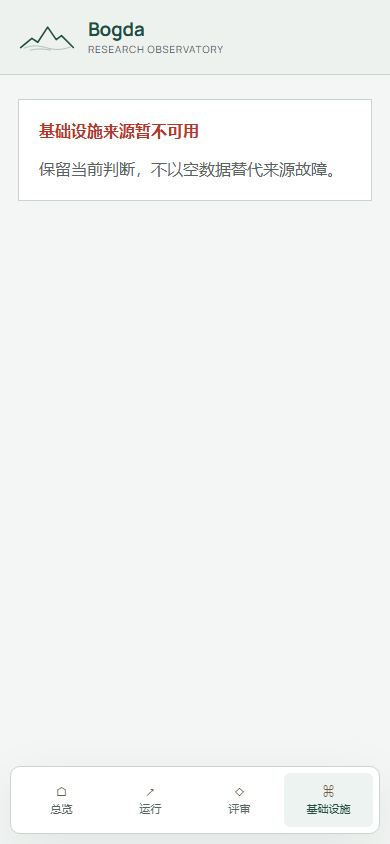
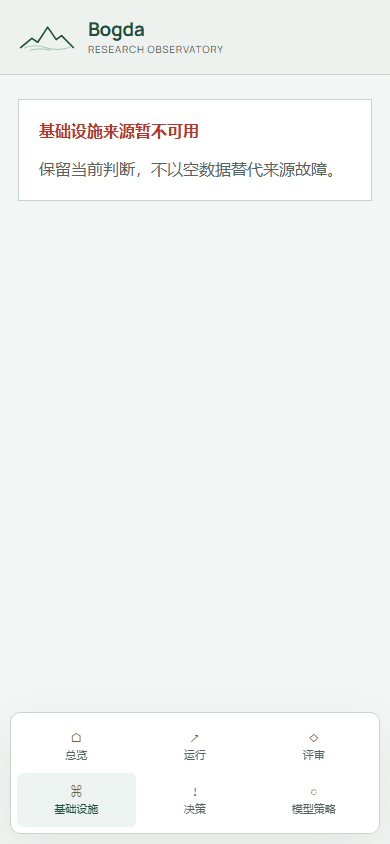
docs(bogda): accept owner console stage

diff --git a/bogda-console/tests/browser/console.spec.ts b/bogda-console/tests/browser/console.spec.ts
@@ -40,9 +40,11 @@ test("allowlisted Deployment submit and exact Prefect controls wait for receipts
   await gotoSettled(page, "/infrastructure");
 
   await page.getByRole("button", { name: "提交 alpine-assay" }).click();
-  await expect(page.getByRole("dialog", { name: "提交 alpine-assay" })).toBeVisible();
+  await expect(page.getByRole("dialog", { name: "准备 alpine-assay" })).toBeVisible();
   await page.getByRole("textbox", { name: "sample" }).fill("ridge-browser");
-  await page.getByRole("button", { name: "提交运行" }).click();
+  await page.getByRole("button", { name: "生成服务端预览" }).click();
+  await expect(page.getByRole("heading", { name: "服务端预览" })).toBeVisible();
+  await page.getByRole("button", { name: "确认并提交运行" }).click();
   await expect(page.getByRole("status")).toContainText("已提交");
 
   await page.getByRole("button", { name: "暂停队列 cpu" }).click();
@@ -137,5 +139,151 @@ test("research autonomy controls wrap at 360px", async ({ page }, testInfo) => {
   await gotoSettled(page, "/");
   await expect(page.getByRole("region", { name: "科研自主模式" })).toBeVisible();
   await assertNoHorizontalOverflow(page);
+  assertNoErrors();
+});
+
+test("decision center keeps keyboard conflict handling and canonical hash targets", async ({ page }) => {
+  const expected = new Set(["POST /api/v1/decisions/decision-1 409"]);
+  const assertNoErrors = collectUnexpectedBrowserErrors(page, expected);
+  await gotoSettled(page, "/decisions#decision-1");
+  const item = page.locator("#decision-1");
+  await expect(item).toBeVisible();
+  await expect.poll(() => item.evaluate((node) => document.activeElement === node)).toBe(true);
+
+  await page.getByRole("button", { name: "查看：Peak run" }).click();
+  const dialog = page.getByRole("dialog", { name: "Peak run" });
+  await expect(dialog).toBeVisible();
+  await expect(dialog.getByRole("combobox", { name: "选择操作" })).toBeVisible();
+  await dialog.getByRole("combobox", { name: "选择操作" }).selectOption("approve");
+  await dialog.getByLabel("操作理由").fill("浏览器验收：批准高峰覆盖");
+  await dialog.getByLabel("确认不可逆后果").check();
+
+  let posts = 0;
+  const snapshot = await (await page.request.get("/api/v1/decisions")).json();
+  await page.route("**/api/v1/decisions/decision-1", async (route) => {
+    if (route.request().method() !== "POST") {
+      await route.continue();
+      return;
+    }
+    posts += 1;
+    if (posts === 1) {
+      await route.fulfill({
+        status: 409,
+        contentType: "application/json",
+        body: JSON.stringify({
+          data: null,
+          sources: {},
+          errors: [{
+            code: "RESOURCE_CHANGED",
+            message: "decision revision moved",
+            source: "modelControl",
+            retryable: false,
+            details: { currentResource: snapshot.data },
+          }],
+        }),
+      });
+      return;
+    }
+    await route.continue();
+  });
+
+  await dialog.getByRole("button", { name: "Approve" }).click();
+  await expect(dialog.getByRole("alert")).toContainText("决策已被其他操作修改");
+  await dialog.getByLabel("我已重新检查当前修订和操作").check();
+  await dialog.getByLabel("确认不可逆后果").check();
+  await dialog.getByRole("button", { name: "Approve" }).click();
+  await expect(page.getByRole("dialog", { name: "Peak run" })).toHaveCount(0);
+  assertNoErrors();
+});
+
+test("run budget copy stays state-specific and usage-unknown forbids blind retry", async ({ page }) => {
+  const assertNoErrors = collectUnexpectedBrowserErrors(page);
+  await gotoSettled(page, "/runs/run-completed");
+  await expect(page.getByRole("region", { name: "运行预算" })).toContainText("预算可用");
+  await expect(page.getByRole("region", { name: "运行预算" })).toContainText("4.00 CNY");
+
+  await gotoSettled(page, "/runs/run-active");
+  const budget = page.getByRole("region", { name: "运行预算" });
+  await expect(budget).toContainText("用量未知");
+  await expect(budget).toContainText("必须人工核对用量后才能恢复");
+  await expect(budget).toContainText("同一调用不得盲目重试");
+  await expect(budget.getByRole("link", { name: /decision-usage-unknown/ })).toHaveAttribute("href", "/decisions#decision-usage-unknown");
+  assertNoErrors();
+});
+
+test("model policy keeps immutable facts and restores inheritance after conflict reconfirm", async ({ page }) => {
+  const expected = new Set(["POST /api/v1/model-policy/projects/bogda-main 409"]);
+  const assertNoErrors = collectUnexpectedBrowserErrors(page, expected);
+  await gotoSettled(page, "/model-policy");
+  await assertNoHorizontalOverflow(page);
+  const region = page.getByRole("region", { name: "模型策略" });
+  await expect(region.getByText("仅观察，不可关闭")).toBeVisible();
+  await expect(region.getByText("修订号")).toBeVisible();
+
+  const remaining = region.getByLabel("最低剩余预算");
+  await remaining.fill("12.00");
+  const save = region.getByRole("button", { name: "保存项目默认" });
+  await save.scrollIntoViewIfNeeded();
+  await save.click({ force: true });
+  await page.getByRole("button", { name: "确认保存" }).click();
+  await expect(region.getByText("本项目覆盖全局默认")).toBeVisible();
+
+  let posts = 0;
+  const current = await (await page.request.get("/api/v1/model-policy?projectId=bogda-main")).json();
+  await page.route("**/api/v1/model-policy/projects/bogda-main", async (route) => {
+    if (route.request().method() !== "POST") {
+      await route.continue();
+      return;
+    }
+    posts += 1;
+    if (posts === 1) {
+      await route.fulfill({
+        status: 409,
+        contentType: "application/json",
+        body: JSON.stringify({
+          data: null,
+          sources: {},
+          errors: [{
+            code: "RESOURCE_CHANGED",
+            message: "policy revision moved",
+            source: "modelControl",
+            retryable: false,
+            details: { currentResource: { ...current.data, revision: current.data.revision + 1 } },
+          }],
+        }),
+      });
+      return;
+    }
+    await route.continue();
+  });
+
+  await region.getByRole("button", { name: "恢复继承全局" }).click();
+  await page.getByRole("button", { name: "确认恢复继承" }).click();
+  await expect(page.getByRole("status")).toContainText("审阅最新值后重新确认");
+  await region.getByRole("button", { name: "恢复继承全局" }).click();
+  await page.getByRole("button", { name: "确认恢复继承" }).click();
+  await expect(region.getByText("继承全局")).toBeVisible();
+  assertNoErrors();
+});
+
+test("real-readonly capabilities keep policy and paid preparation closed", async ({ page }) => {
+  await page.route("**/api/v1/capabilities", async (route) => {
+    const response = await route.fetch();
+    const body = await response.json();
+    body.data = {
+      ...body.data,
+      profile: "real-readonly",
+      canPreparePaidRun: false,
+      canSetModelPolicy: false,
+      canResolveModelDecision: false,
+      canSubmitRegisteredDeployment: false,
+    };
+    await route.fulfill({ response, json: body });
+  });
+  const assertNoErrors = collectUnexpectedBrowserErrors(page);
+  await gotoSettled(page, "/model-policy");
+  await expect(page.getByRole("button", { name: "保存项目默认" })).toBeDisabled();
+  await gotoSettled(page, "/infrastructure");
+  await expect(page.getByRole("button", { name: "提交 alpine-assay" })).toBeDisabled();
   assertNoErrors();
 });

diff --git a/bogda-console/frontend/src/styles/global.css b/bogda-console/frontend/src/styles/global.css
@@ -215,8 +215,8 @@ h2 { margin: 0; font-size: clamp(21px, 2vw, 30px); line-height: 1.15; letter-spa
   .app-rail { position: static; width: auto; height: auto; padding: 16px 18px; border-right: 0; border-bottom: 1px solid var(--line); }
   .app-rail .rail-nav, .rail-foot { display: none; }
   .brand-mark__ridge { width: 58px; }
-  main { padding: 24px 18px 104px; }
-  .mobile-nav { position: fixed; z-index: 30; left: 10px; right: 10px; bottom: 10px; display: grid; grid-template-columns: repeat(5, 1fr); min-height: 68px; padding: 6px; background: var(--paper); border: 1px solid var(--line); border-radius: 10px; box-shadow: var(--shadow); }
+  main { padding: 24px 18px 168px; }
+  .mobile-nav { position: fixed; z-index: 30; left: 10px; right: 10px; bottom: 10px; display: grid; grid-template-columns: repeat(3, 1fr); min-height: 68px; padding: 6px; background: var(--paper); border: 1px solid var(--line); border-radius: 10px; box-shadow: var(--shadow); }
   .mobile-nav a { min-width: 0; min-height: 54px; padding: 4px; flex-direction: column; justify-content: center; gap: 2px; font-size: 11px; }
   .mobile-nav a.active { color: var(--conifer); background: #edf3f0; }
   .source-notice time { width: 100%; margin-left: 27px; }
@@ -239,6 +239,7 @@ h2 { margin: 0; font-size: clamp(21px, 2vw, 30px); line-height: 1.15; letter-spa
   .deployment-record { grid-template-columns: 1fr; }.schedule-list { grid-column: auto; }.deployment-actions .primary-action { width: 100%; }
   .review-control form { grid-template-columns: 1fr; }.review-control .primary-action { width: 100%; }
   .run-budget-ledger { grid-template-columns: 1fr 1fr; }.run-budget-audit-columns { grid-template-columns: 1fr; }
+  .policy-meta,.policy-fields { grid-template-columns: 1fr; }
   .mode-band { grid-template-columns: 1fr; }
   .mode-detent { border-right: 0; border-bottom: 1px solid var(--line); }
   .mode-detent:last-child { border-bottom: 0; }

diff --git a/bogda-console/tests/browser/degradation.spec.ts b/bogda-console/tests/browser/degradation.spec.ts
@@ -7,6 +7,17 @@ import {
   type Scenario,
 } from "./support";
 
+test("decision and policy pages stay available when Prefect infrastructure fails", async ({ page, request }) => {
+  await setScenario(request, "degraded-stale");
+  const expected = new Set(["GET /api/v1/infrastructure 503", "GET /api/v1/deployments 503"]);
+  const assertNoErrors = collectUnexpectedBrowserErrors(page, expected);
+  await gotoSettled(page, "/decisions");
+  await expect(page.getByRole("heading", { name: "决策跑道" })).toBeVisible();
+  await gotoSettled(page, "/model-policy");
+  await expect(page.getByRole("heading", { name: "模型策略" })).toBeVisible();
+  assertNoErrors();
+});
+
 test("Prefect unavailable without last-good renders an explicit failure", async ({ page, request }, testInfo) => {
   await setScenario(request, "degraded-stale");
   const expected = new Set(["GET /api/v1/infrastructure 503", "GET /api/v1/deployments 503"]);
@@ -68,7 +79,11 @@ test("offline Worker and every mock Power mode stay source-separated", async ({ 
 
 test("missing and newest-invalid RunResult are explicit", async ({ page, request }) => {
   await setScenario(request, "result-missing-invalid-conflict");
-  const assertNoErrors = collectUnexpectedBrowserErrors(page);
+  const expected = new Set([
+    "GET /api/v1/runs/run-missing/model-budget 404",
+    "GET /api/v1/runs/run-invalid/model-budget 404",
+  ]);
+  const assertNoErrors = collectUnexpectedBrowserErrors(page, expected);
   await gotoSettled(page, "/runs/run-missing");
   await expect(page.getByRole("heading", { name: "RunResult 缺失" })).toBeVisible();
   await expect(page.getByText("科研状态不可用", { exact: false })).toBeVisible();

diff --git a/bogda-console/tests/browser/accessibility.spec.ts b/bogda-console/tests/browser/accessibility.spec.ts
@@ -15,7 +15,7 @@ test.beforeEach(async ({ page, request }) => {
 
 test("all product surfaces have no serious axe violations", async ({ page }) => {
   const assertNoErrors = collectUnexpectedBrowserErrors(page);
-  for (const path of ["/", "/runs", "/reviews", "/runs/run-completed", "/infrastructure"]) {
+  for (const path of ["/", "/runs", "/reviews", "/runs/run-completed", "/infrastructure", "/decisions", "/model-policy"]) {
     await gotoSettled(page, path);
     const results = await new AxeBuilder({ page }).analyze();
     const blocking = results.violations.filter((violation) =>
@@ -55,11 +55,11 @@ test("skip link and dialog keyboard behavior keep focus deterministic", async ({
   await gotoSettled(page, "/infrastructure");
   const opener = page.getByRole("button", { name: "提交 alpine-assay" });
   await opener.click();
-  const dialog = page.getByRole("dialog", { name: "提交 alpine-assay" });
+  const dialog = page.getByRole("dialog", { name: "准备 alpine-assay" });
   await expect(dialog).toBeVisible();
   await expect(dialog.getByRole("button", { name: "返回" })).toBeFocused();
   await page.keyboard.press("Tab");
-  await expect(dialog.getByRole("button", { name: "提交运行" })).toBeFocused();
+  await expect(dialog.getByRole("button", { name: "生成服务端预览" })).toBeFocused();
   await page.keyboard.press("Tab");
   await expect(dialog.getByRole("textbox", { name: "sample" })).toBeFocused();
   await page.keyboard.press("Escape");

diff --git a/bogda-console/frontend/src/components/EnvelopeState.tsx b/bogda-console/frontend/src/components/EnvelopeState.tsx
@@ -9,9 +9,11 @@ const sourceNames: Record<string, string> = {
 };
 
 export function SourceStrip({ sources }: { sources: Record<string, SourceMeta> }) {
+  const entries = Object.entries(sources);
+  if (!entries.length) return null;
   return (
-    <div className="source-strip" aria-label="数据来源">
-      {Object.entries(sources).map(([key, meta]) => <SourceNotice key={key} name={sourceNames[key] ?? key} meta={meta} />)}
+    <div className="source-strip" role="group" aria-label="数据来源">
+      {entries.map(([key, meta]) => <SourceNotice key={key} name={sourceNames[key] ?? key} meta={meta} />)}
     </div>
   );
 }

diff --git a/bogda-console/frontend/src/components/RunBudgetPanel.tsx b/bogda-console/frontend/src/components/RunBudgetPanel.tsx
@@ -65,7 +65,7 @@ export function RunBudgetPanel({ runId }: { runId: string }) {
     <EnvelopeErrors errors={envelope.errors} />
     {staleSource && <p className="run-budget-source-warning" role="status">预算来源陈旧；以下内容保留为已观测快照，不代表当前余额。</p>}
     <div className={`run-budget-status run-budget-status--${snapshot.state}`}>
-      <strong>{state.label}</strong><span>{statusCopy(snapshot).join("；")}</span>
+      <strong>{state.label}</strong>
     </div>
     <dl className="run-budget-ledger">
       <div><dt>请求 tier</dt><dd>{snapshot.requestedModelTier}</dd></div>

diff --git a/bogda-console/src/bogda_console/adapters/mock_model_control.py b/bogda-console/src/bogda_console/adapters/mock_model_control.py
@@ -41,7 +41,10 @@ class MockModelControlAdapter:
                 projectId="project-1", runId="run-1", reason="Preparation needs owner approval",
                 risk="budget", estimatedCost=Decimal("1.00"), deadline=None,
                 evidence=[EvidenceReference(kind="run", refId="run-1", label="Run")],
-                actions=(DecisionAction(actionId="approve", label="Approve", costImpact="Uses budget", requiresRationale=True),),
+                actions=(
+                    DecisionAction(actionId="approve", label="Approve", costImpact="Uses budget", requiresRationale=True),
+                    DecisionAction(actionId="defer", label="Defer", costImpact="No additional spend"),
+                ),
                 revision=0, logSummary="Awaiting owner decision.",
             )
             ,"decision-usage-unknown": DecisionItem(
@@ -63,6 +66,18 @@ class MockModelControlAdapter:
             currency="CNY", expectedCost=Decimal("0"), authorizedCeiling=Decimal("0"),
             usedCost=Decimal("0"), reservedCost=Decimal("0"), remainingCost=Decimal("0"),
             decisionId="decision-usage-unknown", revision=0,
+        ), "run-completed": ModelBudgetSnapshot(
+            runId="run-completed", projectId="bogda-main", state=BudgetState.READY,
+            currency="CNY", expectedCost=Decimal("1.20"), authorizedCeiling=Decimal("4.00"),
+            usedCost=Decimal("1.20"), reservedCost=Decimal("0"), remainingCost=Decimal("2.80"),
+            decisionId=None, revision=0, intent="execute", requestedModelTier="auto",
+            effectiveModelTier="flash", effectiveAutonomyMode="supervised", pricePeriod="off-peak",
+        ), "run-active": ModelBudgetSnapshot(
+            runId="run-active", projectId="bogda-main", state=BudgetState.USAGE_UNKNOWN,
+            currency="CNY", expectedCost=Decimal("0.80"), authorizedCeiling=Decimal("2.00"),
+            usedCost=Decimal("0"), reservedCost=Decimal("0.80"), remainingCost=Decimal("1.20"),
+            decisionId="decision-usage-unknown", revision=0, intent="execute", requestedModelTier="auto",
+            effectiveModelTier="flash", effectiveAutonomyMode="supervised", pricePeriod="off-peak",
         )}
         self._preparations: dict[str, RunPreparationPreview] = {}
         self._confirmations: dict[str, tuple[str, str]] = {}

diff --git a/docs/reports/2026-08-29-bogda-deferred-work-register.md b/docs/reports/2026-08-29-bogda-deferred-work-register.md
@@ -18,7 +18,7 @@
 | ID | 工作 | 当前承诺 | 完成证据 |
 |---|---|---|---|
 | NOW-01 | Phase C Task 5–6：Prefect 挂起边界、fake 集成验收与维护者交接 | 已完成本地交接；真实部署/生产验证仍见 DEF-02/03/12 | [Phase C acceptance 报告](2026-08-29-bogda-paid-model-runtime-acceptance.md)、一次最终 Bogda full suite、Orchestra 兼容测试 |
-| NOW-02 | Stage D：owner 可操作的前端裁决面与状态可视化 | Phase C 本地合并后继续，SOL 自主裁定并本地 auto-merge | 前端测试、窗口/开关矩阵、决策中心单一事实源验收 |
+| NOW-02 | Stage D：owner 可操作的前端裁决面与状态可视化 | **本报告关闭 mock 剖面**；真实 usage/调度仍见 DEF-01/03 | [Stage D acceptance](2026-08-29-bogda-owner-console-acceptance.md)、浏览器/前端/契约矩阵 |
 | NOW-03 | Stage E：运行接线与迁移前验收 | Stage D 后继续；仍不默认授权 live spend/production mutation | 影子/强制门禁证据、回滚与运维说明 |
 | NOW-04 | Gate 6 收尾 | `20260828T064220Z` 因 USB SSD 断连和 120 次 API 失败已收口为失败；新 trial 等待 DEF-15 的 owner-approved 维护 | [Gate 6 失败报告](2026-08-29-bogda-rk3528-gate6-failure.md)、新 trial 与剩余 blocker 清单 |
 
@@ -32,14 +32,14 @@
 | DEF-04 | usage unknown 的人工对账闭环：查看 receipt/产物、录入或拉取实际费用、批准重试/终止、释放或对账预留 | 当前仅有 fail-safe barrier，没有 owner 命令/API/窗口 | 第一条真实 provider 调用前 | 决策中心必须提供“先对账、确认重试、终止”，禁止无提示一键重试 | Stage D+E；所有动作写结构化审批事件，同 call 不重复付费 |
 | DEF-05 | 将进程内 SingleFlight ledger、call claim 和终态事件投递替换为跨进程原子预留/持久 outbox | Phase C 明确限定单进程；过早引入数据库会增加复杂度 | worker 并发大于 1、跨进程恢复或正式多节点执行前 | 全局策略页只展示并发/锁状态；不能提供绕过锁的普通开关 | Stage E/切换前；崩溃恢复、并发相同 call、终态事件失败均不会重复付费 |
 | DEF-06 | 峰谷调度器按 deadline、预计调用窗口和高峰重算预算；支持“继续等/按高峰新预算立即跑/取消” | Phase C 只有价格目录与即时 cost 计算，没有调度执行 | Stage D 创建运行窗口和 Stage E scheduler 接线同步启动 | 创建/确认窗口显示计划启动、当前价格窗口、预计节省和 deadline 风险 | Stage D+E；北京时间边界、跨峰谷、deadline 临近集成测试通过 |
-| DEF-07 | 完整 owner 前端：决策中心、创建运行、启动确认、运行详情、项目策略、全局策略 | 当前 Phase C 是后端 vertical slice | Phase C acceptance 本地合并后 | 明确展示三种 autonomy 合作方式、intent、Auto/Flash/Pro、预算、价格、恢复条件、日志/产物 | Stage D；必须通过设计 spec §13/§16.4 的前端矩阵，不复制后端策略 |
-| DEF-08 | 前端显式开关与不可关闭安全基线 | 后端契约已冻结，UI 尚未接入 | 与 DEF-07 同步 | 可选：自动升 Pro、低风险降 Flash、优先空闲、余额恢复自动继续、通知、继承/覆盖；不可关闭：stale fail-closed、最低余额、decide/audit 禁静默降级、unknown-usage 门禁、日志/归档/脱敏 | Stage D；来源/修订号/恢复继承与冲突重确认测试通过 |
+| DEF-07 | 完整 owner 前端：决策中心、创建运行、启动确认、运行详情、项目策略、全局策略 | **Stage D mock 已交付**；真实 profile 仍禁写 | Phase C 已完成；后续只补真实接线 | 明确展示三种 autonomy 合作方式、intent、Auto/Flash/Pro、预算、价格、恢复条件、日志/产物 | Stage D mock 关闭于 [acceptance](2026-08-29-bogda-owner-console-acceptance.md)；真实写入仍要 Gate 6 + S1/S2 |
+| DEF-08 | 前端显式开关与不可关闭安全基线 | **Stage D mock 已交付** | 与 DEF-07 同步完成 | 可选偏好与不可关闭基线已在 `/model-policy` 分开 | 来源/修订号/恢复继承与冲突重确认已有前端+浏览器测试 |
 | DEF-09 | 价格目录生命周期：到期前更新、来源审计、失效 fail-closed、前端告警 | 当前目录 `review_by=2026-09-28`，不会自动更新 | 到 review_by 前或 DeepSeek 价格变更时 | 全局策略页显示版本、来源、生效/复核日期；失效时给更新入口 | Stage E 运维；新旧版本回归、未知版本拒绝、无猜价 |
 | DEF-10 | 实际消耗反馈到 workload 估算、历史 p90、安全系数和后续调用预算 | 当前只完成单次精确对账，尚未形成历史反馈闭环 | 有足够真实调用样本后 | 运行详情显示预测/实际偏差；策略页显示调整依据，不自动扩大当前预算 | Stage E 后续；偏差告警与下一次预测变化可复现 |
 | DEF-11 | Orchestra → Bogda 单向生产迁移与第三维兼容映射，最终冻结 Orchestra 为只读历史 | 迁移期禁止双调度/双事实源；当前只复用契约/patch 语义 | Stage D/E 独立验收完成并由 owner 批准切换 | 切换窗口显示任务范围、兼容映射、回滚点和不可逆影响 | Gate 6/切换阶段；任务转换测试、无 Bogda runtime import Orchestra、3100/3101 事实源不冲突 |
 | DEF-12 | 生产运维接线：密钥注入、systemd/worker、日志保留、备份/恢复、告警和回滚 | 当前明确禁止改生产、密钥、systemd、Prefect DB | Gate 6 变更窗和备份确认 | 运维窗口显示目标主机/服务/版本/回滚；敏感值永不回显 | Gate 6；runbook 演练、健康检查、回滚验证、秘密扫描通过 |
 | DEF-13 | 运行产物生命周期：prompt/stdout/stderr/receipt 的权限、保留期、清理与科研可复现引用 | Phase C 只定义落盘与脱敏，没有生产保留策略 | 正式产生真实科研产物前 | 运行详情提供可点击引用和权限状态；清理必须是显式受控动作 | Stage E；保留/清理不破坏事件引用，秘密扫描与恢复抽查通过 |
-| DEF-14 | 高风险科学/外部动作统一审批：结果 accepted/rejected/inconclusive、发布、采购、新增支出 | 不属于模型调用内核，autonomous 也不能跳过 | Stage D 决策中心接线 | 每个窗口显示证据、费用/质量影响、不可逆后果和日志摘要 | Stage D/E；审批事件、冲突修订和拒绝路径端到端通过 |
+| DEF-14 | 高风险科学/外部动作统一审批：结果 accepted/rejected/inconclusive、发布、采购、新增支出 | 决策跑道 mock 已有；真实科研结论仍走 RunResult 评审，不把 Prefect Completed 当成 accepted | 真实决策源接入后回归 | 每个窗口显示证据、费用/质量影响、不可逆后果和日志摘要 | Stage D mock 路径已测；生产审批仍待 Stage E |
 | DEF-15 | RK3528 USB/SSD 稳定性整改并重跑 Gate 6 | 失败轮发生 USB SSD 断连、ext4 journal abort、Prefect server/worker 停止；只读证据不能修复物理/运行状态 | owner 批准维护窗、设备检查、离线文件系统/SSD 健康检查和服务恢复 | 运维窗口显示目标设备、检查步骤、备份、回滚与新 trial 编号；不能把重挂载当成通过 | Gate 6；根因证据、服务恢复、全新 24h trial、每日快照、受控 reboot、独立 restore 全部通过 |
 
 ## 明确不登记为必要目标

diff --git a/docs/reports/2026-08-29-bogda-owner-console-acceptance.md b/docs/reports/2026-08-29-bogda-owner-console-acceptance.md
@@ -1,0 +1,33 @@
+# Bogda Stage D 验收：Owner Console
+
+日期：2026-08-29  
+工作树：`D:\pythonProject\.worktrees\bogda-stage-d-console`  
+分支：`codex/bogda-stage-d-console`  
+范围：3101 mock-all 影子控制台。**不是 Gate 6 通过，不是真 Prefect 写入，不是 3100 切换。**
+
+## 结论
+
+Stage D 的 owner 操作面在 mock 剖面下可验收：决策跑道、运行预算审计、模型策略、受控运行准备。宿舍机硬件、真实 usage/dsh、Gate 6 维护窗仍按延期登记册挂起。
+
+## 浏览器矩阵
+
+在 Playwright 视口 `desktop-1440`、`1280`、`768`、`390`、`360`、`320` 上覆盖：
+
+- 决策 hash 定位、多动作选择、冲突后必须重确认、不可逆勾选。
+- 运行预算 `ready` 与 `usage-unknown`（固定文案：人工核对、禁止盲重试）及唯一决策链接。
+- 模型策略不可变安全基线、项目覆盖后恢复继承、冲突后重新确认。
+- 受控准备：`生成服务端预览` → `确认并提交运行`；键盘焦点 trap；Escape 还原。
+- `real-readonly` 能力下策略保存与 Deployment 提交按钮保持禁用。
+- axe serious/critical 空；reduced-motion；无横向溢出。
+
+## 视觉 QA
+
+检查了决策跑道、运行详情预算、模型策略、准备对话框在桌面与 320/360px。保留既有 conifer/lake 壳层与字体。
+
+**去掉的多余视觉元素：** 运行预算状态条里与「恢复条件」列表重复的同一段恢复文案。状态条只保留状态名，恢复说明只出现在下方单一 callout。
+
+**窄屏修补：** 主导航第六项「模型策略」使原 5 列底栏会挤出视口；改为 3×2，并让策略字段在 840px 以下单列。
+
+## 明确未关闭
+
+宿舍机、Wake Bridge、真实 Prefect S1/S2、Gate 6 受控重启/restore、3100 切换。见延期登记册 DEF-01–15 与 NOW-03/NOW-04。

diff --git a/docs/superpowers/plans/2026-08-29-bogda-owner-console.md b/docs/superpowers/plans/2026-08-29-bogda-owner-console.md
@@ -262,21 +262,21 @@ git commit -m "feat(console): add model policy and run preparation"
 - Produces desktop and 320/360 px interaction evidence for the decision center, run budget, policy, and guarded preparation flows.
 - Closes Stage D-only deferred items and keeps real usage, scheduler execution, durable stores/outbox, live smoke, Prefect deployment, artifact lifecycle, and production operations open for Stage E.
 
-- [ ] **Step 1: Add browser acceptance scenarios**
+- [x] **Step 1: Add browser acceptance scenarios**
 
 Exercise keyboard/focus flow, decision conflict, state-specific recovery copy, project inheritance restore, guarded run confirmation, real-profile unavailable behavior, and axe checks at desktop/mobile widths.
 
-- [ ] **Step 2: Run the focused browser scenarios**
+- [x] **Step 2: Run the focused browser scenarios**
 
 Run: `npm run test:browser -- console.spec.ts accessibility.spec.ts degradation.spec.ts`
 
 Expected: PASS with no unexpected console errors or requests.
 
-- [ ] **Step 3: Perform visual QA and remove one unnecessary visual element**
+- [x] **Step 3: Perform visual QA and remove one unnecessary visual element**
 
 Inspect decision center, run detail, and model policy at desktop and 320/360 px. Preserve visible focus, reduced-motion compatibility, no horizontal clipping, and the existing shell identity. Record the removed excess element in the acceptance report.
 
-- [ ] **Step 4: Run one final Stage D verification**
+- [x] **Step 4: Run one final Stage D verification**
 
 Run:
 
